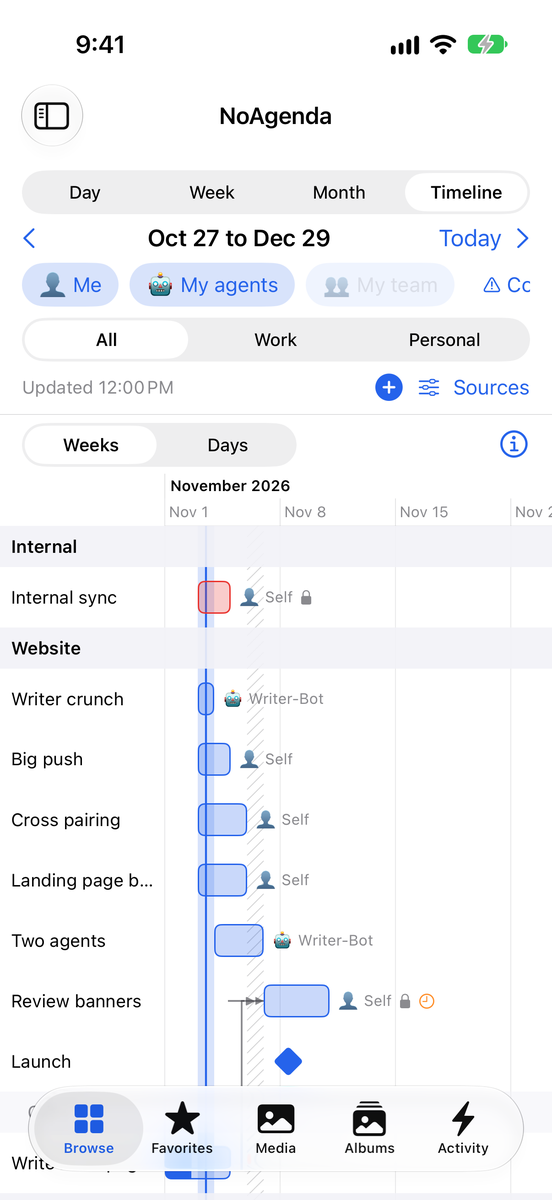
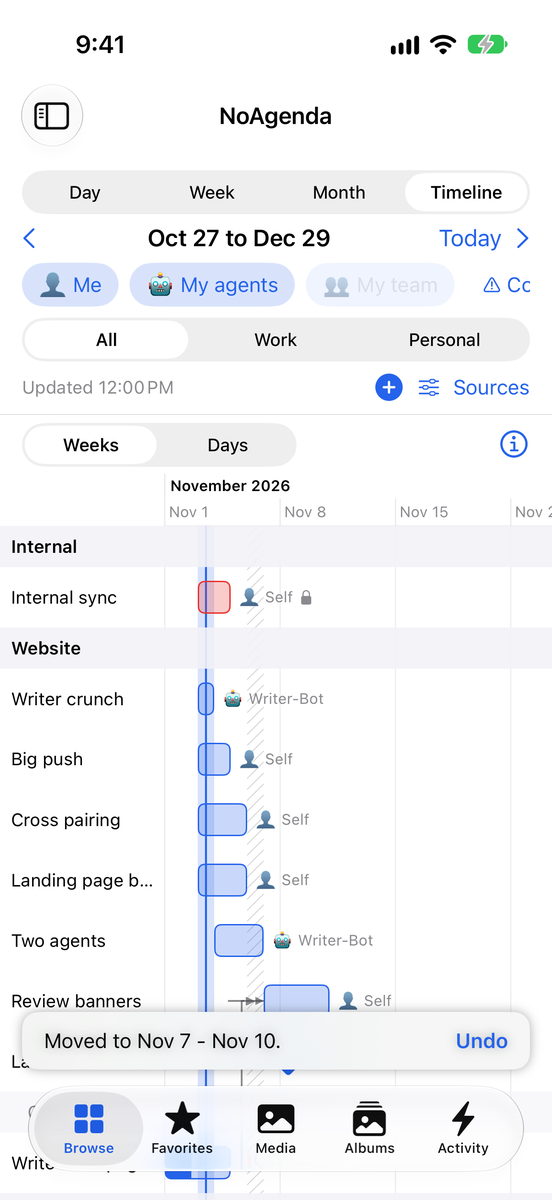
docs(ios): NoAgenda Timeline docs and merge: green head run 41579821599 cited, light moved screenshot refreshed, owner steps, review nits

diff --git a/docs/testing.md b/docs/testing.md
@@ -37,7 +37,7 @@ NoAgenda server, NoAgenda replay, Server login, the 9 Simulator screens shards, 
 finders and on test strings that later commits repaired (`41392069569`: a test text held a literal line break, fixed by `ab1cda20d5`). The
 merge to `main` adds only documents on top of that commit; the same checks run again on the docs commit and on `main`.
 
-NoAgenda Timeline round 2 (review fixes; run [41562291822](https://github.com/NouraX-ORG/nodrive-ios/actions/runs/41562291822), code commit `067f488940`; an earlier run of `e28ef24c3c` failed in the two Timeline shards because an empty banner area took 140 points of the chart and the finder's drags missed the chart, fixed in `067f488940`; the last commit changes only documents, the screenshots and one screenshot call of the UI test). First round: NoAgenda Timeline (feature `feature/noagenda-timeline`): run [41497689323](https://github.com/NouraX-ORG/nodrive-ios/actions/runs/41497689323), commit `a0e2e25f07` (on top of `main` at `ead7f3d791`, so no merge was needed), all 18 jobs green (Branding gate, Build and unit tests, NoAgenda server, NoAgenda replay, Server login, the 11 Simulator screens shards, Simulator screens report). Earlier runs of the branch failed on a missing switch case (`41475201488`), on the seed check (NoGantt answers `EA` for a finish-to-start, `41475201488`), on two arithmetic expectations of the new unit tests, on the replay check that expected the old scenario count (`41487370522`), and in the screenshot the name column did not follow the scroll (fixed with `onScrollGeometryChange`, `f0548541a7`). The merge to `main` adds only documents on top of the code commit.
+NoAgenda Timeline round 2 (review fixes; the fully green run of the branch is [41579821599](https://github.com/NouraX-ORG/nodrive-ios/actions/runs/41579821599) on `e90ceb88b0`, all 17 jobs; the code commit is `067f488940`, the run [41562291822](https://github.com/NouraX-ORG/nodrive-ios/actions/runs/41562291822) of it was cancelled in the shard agenda and the report job after the rest had passed; an earlier run of `e28ef24c3c` failed in the two Timeline shards because an empty banner area took 140 points of the chart and the finder's drags missed the chart, fixed in `067f488940`; the last commit changes only documents, the screenshots and one screenshot call of the UI test). First round: NoAgenda Timeline (feature `feature/noagenda-timeline`): run [41497689323](https://github.com/NouraX-ORG/nodrive-ios/actions/runs/41497689323), commit `a0e2e25f07` (on top of `main` at `ead7f3d791`, so no merge was needed), all 18 jobs green (Branding gate, Build and unit tests, NoAgenda server, NoAgenda replay, Server login, the 11 Simulator screens shards, Simulator screens report). Earlier runs of the branch failed on a missing switch case (`41475201488`), on the seed check (NoGantt answers `EA` for a finish-to-start, `41475201488`), on two arithmetic expectations of the new unit tests, on the replay check that expected the old scenario count (`41487370522`), and in the screenshot the name column did not follow the scroll (fixed with `onScrollGeometryChange`, `f0548541a7`). The merge to `main` adds only documents on top of the code commit.
 
 Reference run: **[40206804804](https://github.com/NouraX-ORG/nodrive-ios/actions/runs/40206804804)**
 on `main` (commit `b03563c3c9`), all 3 jobs green. Xcode 27.1 (build 27A9275), runner image
@@ -340,7 +340,7 @@ the Files root while a finder looked for the list); the finders now scroll by a 
 ## NoAgenda Timeline (step 3)
 
 See `docs/noagenda.md` ("Timeline"). Screenshots in `docs/screenshots/ios/agenda-timeline-light/` and `agenda-timeline-dark/` (1200 px copies from run
-[41562291822](https://github.com/NouraX-ORG/nodrive-ios/actions/runs/41562291822), commit `067f488940`, iPhone 17, iOS 27.0, Ali against the CI stand-in that replays the real server's answers). Looked at for
+[41579821599](https://github.com/NouraX-ORG/nodrive-ios/actions/runs/41579821599), commit `e90ceb88b0` (the light copy of "moved" was refreshed from it; an earlier frame showed the move before NoGantt answered), iPhone 17, iOS 27.0, Ali against the CI stand-in that replays the real server's answers). Looked at for
 Nextcloud's name, logo, colours and links: none; the accent is cobalt.
 
 | Screen | light | dark |
@@ -356,12 +356,12 @@ Nextcloud's name, logo, colours and links: none; the accent is cobalt.
 
 | Feature | Who | Result | Evidence |
 |---|---|---|---|
-| Timeline unit tests: date and x at both zooms, range, group and row order, what is drawn, shapes, the four arrow types with lags and routes, stubs, shading shares, hatch days, Move by (same command as the sheet, summer time, to-do, locked), spoken labels, strings and symbols, the person on a predecessor | CI | pass | run 41497689323, job "Build and unit tests": 6 suites `NoDrive NoAgenda Timeline ...` passed |
-| Timeline in the simulator, light and dark (6 tests each): groups and phase, the 40 % bar done by Writer-Bot, the arrow, the stub with its text, milestone, dated card and to-do bar, a to-do without a start is not drawn; Days zoom; a viewer task is locked with its reason and the Team chip is dimmed; legend and range arrows; the editor with Move by -7, -1, +1, +7; a move saved with the "Moved to" toast | CI | pass (stand-in) | shards `agenda-timeline`, `agenda-timeline-dark`: `timeline: xcodebuild exit 0, passed tests 6 of 6`; 9 screenshots per colour mode (the test scrolls to the lower rows and checks that the last row is clear of the tab bar) |
-| The Timeline move asks NoGantt to move the followers (`adjust_lag`) and writes nothing else | CI | pass | `agenda-edit-check.py --timeline`: `0 problem(s)` on the stand-in log (a NoGantt `PUT` with `moves_dates` and `adjust_lag`) |
-| A Timeline move (+7 days) and its Undo on a real Nextcloud 35.0.2 with nc_gantt 2.4.1: start a week later, the end a week later or the working day before, the dependent task moved, Undo puts all back | CI | pass (throwaway server) | job "NoAgenda replay": `timeline-move`, `timeline-undo` rows PASS; the stand-in answers like the real server |
+| Timeline unit tests: date and x at both zooms, range, group and row order, what is drawn, shapes, the four arrow types with lags and routes, stubs, shading shares, hatch days, Move by (same command as the sheet, summer time, to-do, locked), spoken labels, strings and symbols, the person on a predecessor | CI | pass | run 41579821599, job "Build and unit tests": 7 suites `NoDrive NoAgenda Timeline ...` passed, `failedTests` 0 |
+| Timeline in the simulator, light and dark (6 tests each): groups and phase, the 40 % bar done by Writer-Bot, the arrow, the stub with its text, milestone, dated card and to-do bar, a to-do without a start is not drawn; Days zoom; a viewer task is locked with its reason and the Team chip is dimmed; legend and range arrows; the editor with Move by -7, -1, +1, +7; a move saved with the "Moved to" toast | CI | pass (stand-in) | run 41579821599, shards `agenda-timeline`, `agenda-timeline-dark`: `timeline: xcodebuild exit 0, passed tests 6 of 6`; 9 screenshots per colour mode (the test scrolls to the lower rows and checks that the last row is clear of the tab bar) |
+| The Timeline move asks NoGantt to move the followers (`adjust_lag`) and writes nothing else | CI | pass | run 41579821599, `agenda-edit-check.py --timeline`: `0 problem(s)` on the stand-in log (a NoGantt `PUT` with `moves_dates` and `adjust_lag`) |
+| A Timeline move (+7 days) and its Undo on a real Nextcloud 35.0.2 with nc_gantt 2.4.1: start a week later, the end a week later or the working day before, the dependent task moved, Undo puts all back | CI | pass (throwaway server) | run 41579821599, job "NoAgenda replay": `timeline-move`, `timeline-undo` rows PASS; the stand-in answers like the real server |
 | The seed has the Timeline data on the real server: "Review banners" follows two tasks, a task in a phase, a dated milestone, a to-do with start and due | CI | pass (throwaway server) | job "NoAgenda server", `agenda-server.md`: the four `timeline seed` rows PASS |
-| No Nextcloud text in the Timeline screens; the accent is cobalt | CI | pass | `check-branding.py` 0 unclassified; `screens-report` ok; screenshots looked at |
+| No Nextcloud text in the Timeline screens; the accent is cobalt | CI | pass | run 41579821599, `check-branding.py` 0 unclassified; `screens-report` ok, network gate forbidden 0; screenshots looked at |
 | Timeline on the real account: side menu, NoAgenda, Timeline: your tasks as bars under their project and phase with the % filled, to-dos with two dates, milestones and dated cards as diamonds, an arrow where one task follows another, your busy time shaded | owner | pending | drive.nourax.org, your own account; compare with NoGantt on the web |
 | Timeline: tap a task, Edit, Move by +1 day, Save: NoGantt on the web shows the new dates and the tasks that follow moved; Undo in the toast puts them back | owner | pending | a project you manage, a test task |
 
@@ -430,7 +430,20 @@ Nextcloud's name, logo, colours and links: none; the accent is cobalt.
       "Not sent" with three choices.
    7. Check that a project or board you may only view, a repeating event and an invitation are locked with a reason, and that
       "Open in ..." opens the signed-in page.
-10. Go through the "owner" rows above, then read back the device name shown under
+10. NoAgenda Timeline (same app, same account): open NoAgenda and tap **Timeline** next to Day, Week and Month. Expect:
+   1. Your NoGantt tasks as bars under their project (and phase), with the filled part showing the percent done, the person or agent after
+      the bar, a to-do with a start and a due date as a dashed bar, milestones and dated cards as diamonds, and the busy time of your own
+      calendars shaded. Compare with the same project in NoGantt on the web: same dates, same order.
+   2. A line with an arrow where one task follows another. Tap the little stub ("After: ...") to read what it follows. Scroll to the end:
+      the last rows can be scrolled clear of the tab bar. The names on the left stay while you scroll sideways.
+   3. Weeks and Days switch the zoom; the info button explains the marks. The chips Me, My agents, the All/Work/Personal switch and the
+      Conflicts chip work as in the other views (My team is dimmed).
+   4. Tap a task you manage, tap Edit, use "Move by" (-7, -1, +1, +7 days), Save. The bar moves, a toast reads "Moved to ..." with Undo, and
+      NoGantt on the web shows the new dates with the tasks that follow moved too. Undo puts them back. Use a test task.
+   5. A task of a project you may only view is locked with its reason. A task with only a start date is a one-day bar.
+   6. Arabic: the chart stays left to right on purpose; the controls and sheets follow the language (not yet checked by a screenshot).
+   Nothing is deleted from the Timeline.
+11. Go through the "owner" rows above, then read back the device name shown under
    Settings → Security on drive.nourax.org.
 
 Building and the iPhone steps: [build.md](build.md).

diff --git a/docs/noagenda.md b/docs/noagenda.md
@@ -122,6 +122,11 @@ review 3 approved it with 4 nits (open points below). Rows for the owner: "NoAge
   - "Not linked to an account" does not name the planning person, so two unlinked people on one task give one sentence.
   - The docstring of `tools/ci/agenda_gantt_seed.py` still says Design-Bot is known by name only (it is known by registry id).
   - The root cause of the flaky agenda shard is not known.
+- Review nits of step 3 (Timeline) not fixed (`plans/round3-ios-agenda-timeline-review-2.md`):
+  - A hard clash and "not sent" use the same symbol on a bar (`exclamationmark.triangle.fill`, red against orange). Give "not sent" its own
+    symbol or show the symbols in the legend.
+  - The Arabic (right-to-left) Timeline has no screenshot check.
+  - The arrows canvas covers the full height (plan risk T1); draw only the visible rows if a project with hundreds of dependencies turns up.
 - A project whose tasks the server refuses (401 or 403) keeps its saved rows and is marked in Sources with the time
   it could not be read. Calendars that fail to read are only reported by the banner (not marked one by one).
 - The agenda UI shard is sometimes slow to come up. Every finder that gives up now keeps a screenshot

diff --git a/docs/screenshots/ios/README.md b/docs/screenshots/ios/README.md
@@ -97,6 +97,6 @@ NoAgenda editing (`agenda-edit-light/`, `agenda-edit-dark/`): from run [41393142
 `feature/noagenda-edit` (commit `ab1cda20d5`, the UI tests `NoDriveAgendaEditUITests`). The names are in `docs/testing.md`, section
 "NoAgenda editing (step 2)".
 
-NoAgenda Timeline (`agenda-timeline-light/`, `agenda-timeline-dark/`): from run [41497689323](https://github.com/NouraX-ORG/nodrive-ios/actions/runs/41497689323) on
-`feature/noagenda-timeline` (commit `a0e2e25f07`, the UI tests `NoDriveAgendaTimelineUITests`). The names are in `docs/testing.md`, section
+NoAgenda Timeline (`agenda-timeline-light/`, `agenda-timeline-dark/`): from run [41579821599](https://github.com/NouraX-ORG/nodrive-ios/actions/runs/41579821599) on
+`feature/noagenda-timeline` (commit `e90ceb88b0`; the light copy of "moved" is from this run, the others from the cancelled run 41562291822 of `067f488940`, the UI tests `NoDriveAgendaTimelineUITests`). The names are in `docs/testing.md`, section
 "NoAgenda Timeline (step 3)".
